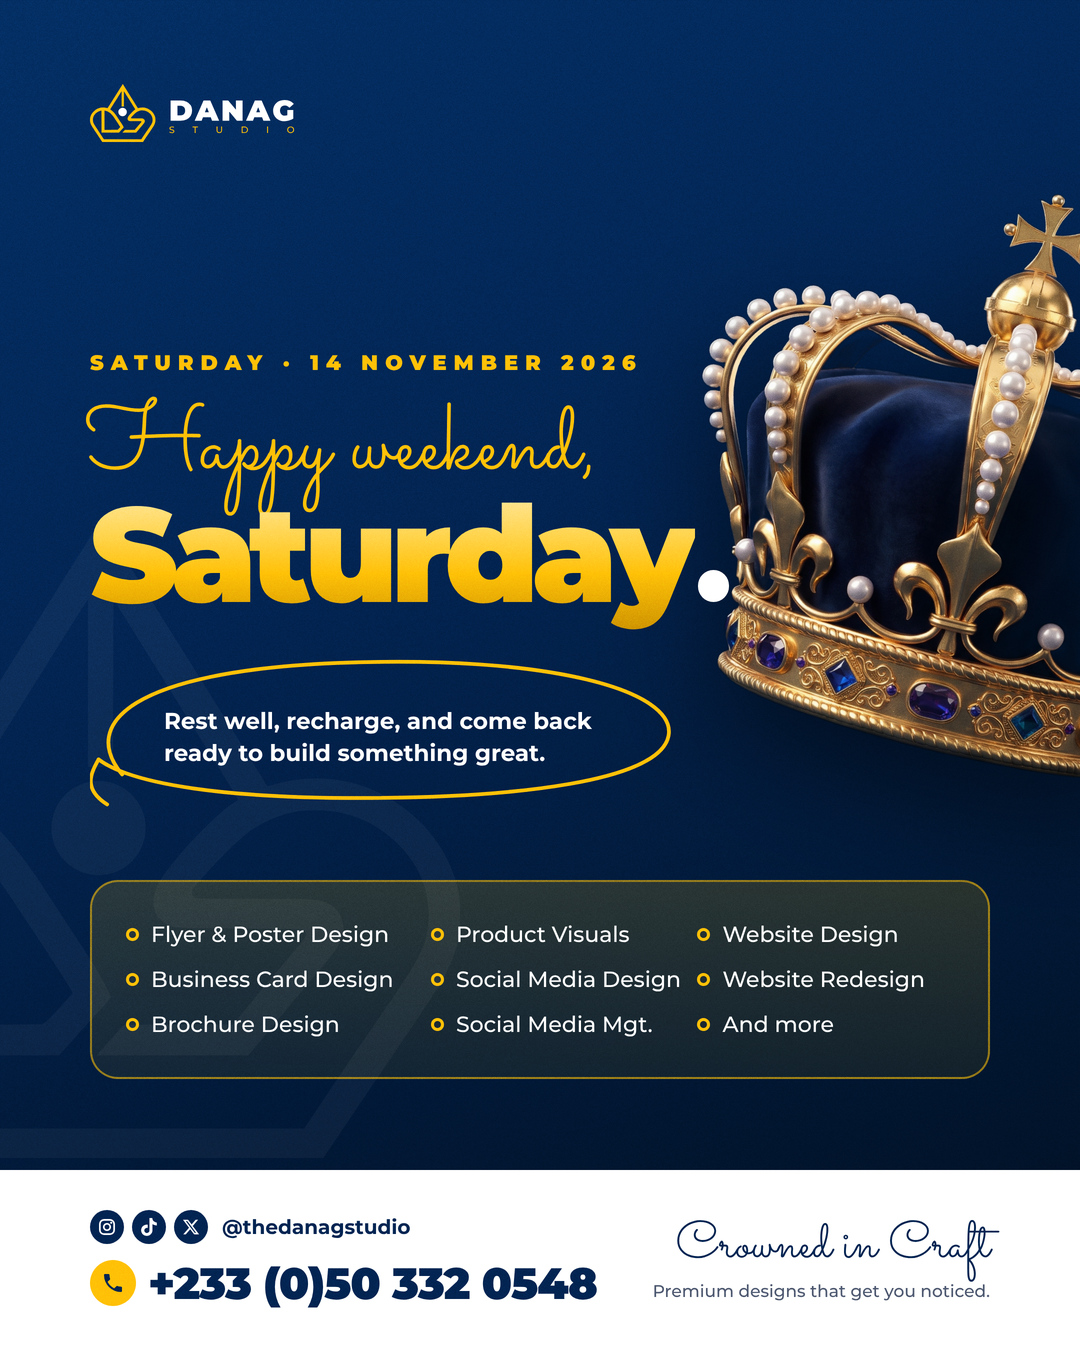
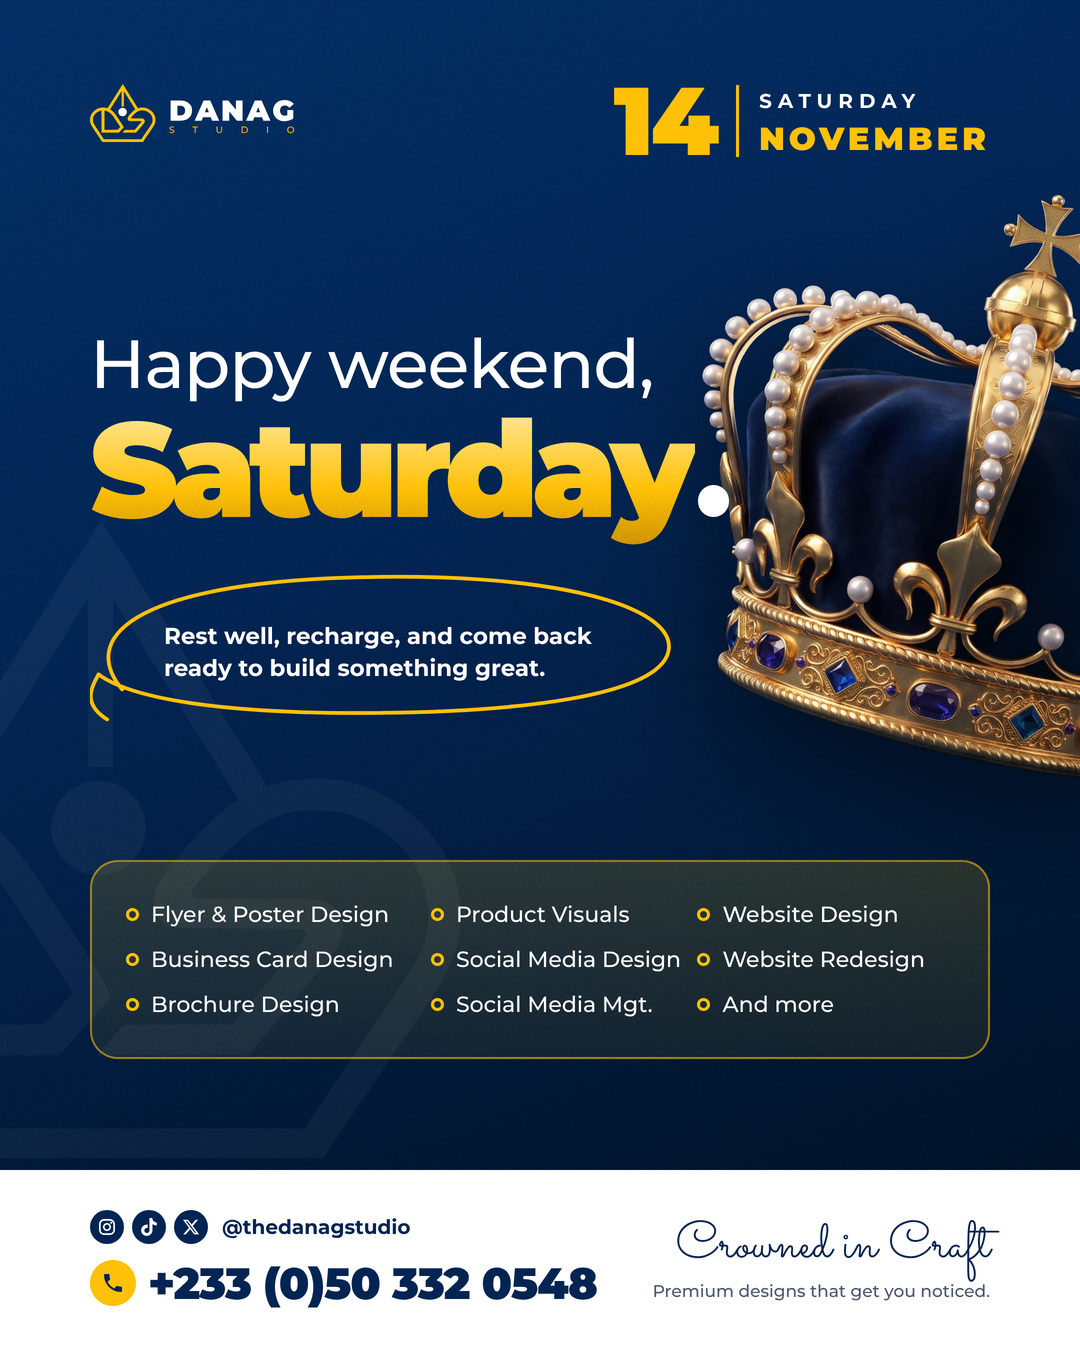
Saturday 14 Nov: white pen greeting (single slide) + navy hanging-phone promo
Claude-Session: https://claude.ai/code/session_016a1VN4sEuNiBsko23wNLQZ

diff --git a/promo/render_greet_pen.py b/promo/render_greet_pen.py
@@ -11,11 +11,17 @@ sys.path.insert(0, B)
 import render_book as rb
 from contacts import IC
 out, script, head, kick, msg = sys.argv[1:6]
+import datetime as _dt
+_d = _dt.date.fromisoformat(sys.argv[6]) if len(sys.argv) > 6 else _dt.date.today()
+DAY = _d.strftime('%d'); WD = _d.strftime('%A').upper(); MON = _d.strftime('%B').upper()
 F = f'{R}/fonts/'; GOLD = '#FFC107'
-CROWN = pathlib.Path('/home/claude/assets/crown-cut.png').as_uri()
+import os as _os
+CROWN = pathlib.Path(_os.environ.get('OBJ', '/home/claude/assets/crown-cut.png')).as_uri()
+OBJST = _os.environ.get('OBJSTYLE', 'right:-270px;top:190px;width:680px;transform:rotate(14deg)')
 logo = re.sub(r'<\?xml[^>]*>', '', open(f'{B}/logo-on-navy.svg').read()).replace('<svg', '<svg style="height:58px;width:auto;display:block"', 1)
 ic = lambda k, c, s=22: f'<svg viewBox="0 0 24 24" width="{s}" height="{s}" style="color:{c};flex:none">{IC[k]}</svg>'
-circ = lambda k: f'<span style="width:34px;height:34px;border-radius:50%;background:#022452;display:inline-flex;align-items:center;justify-content:center">{ic(k, "#fff", 18)}</span>'
+circ = lambda k: f'<span style="width:34px;height:34px;border-radius:50%;background:#022452;display:inline-flex;align-items:center;justify-content:center">{ic(k, CI, 18)}</span>'
+CI = '#022452' if __import__('os').environ.get('THEME') == 'white' else '#fff'
 cols = [['Flyer &amp; Poster Design', 'Business Card Design', 'Brochure Design'],
         ['Product Visuals', 'Social Media Design', 'Social Media Mgt.'],
         ['Website Design', 'Website Redesign', 'And more']]
@@ -32,18 +38,22 @@ body{{width:1080px;height:1350px;overflow:hidden;position:relative;font-family:M
 .g{{background:linear-gradient(180deg,#FFF1C4 0%,#FFD54F 38%,#FFC107 62%,#C98F00 100%);-webkit-background-clip:text;background-clip:text;color:transparent;padding-right:.04em}}
 </style></head><body>
 <svg class="a" viewBox="252 255 749 664" style="left:-260px;top:520px;width:720px;opacity:.04"><path fill="#fff" fill-rule="evenodd" d="{rb.MK['nodot']}"/><path fill="#fff" d="{rb.MK['dot']}"/></svg>
-<img class="a" src="{CROWN}" style="right:-270px;top:190px;width:680px;transform:rotate(14deg);filter:drop-shadow(0 40px 60px rgba(0,0,0,.55))">
+<img class="a" src="{CROWN}" style="{OBJST};filter:drop-shadow(0 40px 60px rgba(0,0,0,.55))">
 <div class="a" style="left:90px;top:84px">{logo}</div>
-<div class="a" style="left:90px;top:350px">
- <div style="font-weight:900;font-size:21px;letter-spacing:7px;color:{GOLD}">{kick}</div>
- <div style="font-family:SC;font-size:96px;line-height:1;color:{GOLD};margin-top:26px;margin-left:-4px">{script}</div>
- <div id="h" style="font-weight:900;font-size:176px;line-height:.95;letter-spacing:-7px;margin-top:-6px;white-space:nowrap"><span class="g">{head}</span><span style="display:inline-block;width:.236em;height:.236em;border-radius:50%;background:#fff;margin-left:.02em"></span></div>
+<div class="a" style="right:90px;top:84px;display:flex;align-items:center;gap:20px;z-index:5">
+ <div style="font-weight:900;font-size:96px;line-height:.78;color:{GOLD};letter-spacing:-3px">{DAY}</div>
+ <div style="width:3px;height:72px;background:{GOLD}"></div>
+ <div style="font-weight:700;font-size:20px;letter-spacing:6px;line-height:1.55">{WD}<span style="display:block;font-weight:900;font-size:32px;letter-spacing:4px;line-height:1.1;margin-top:4px;color:{GOLD}">{MON}</span></div>
+</div>
+<div class="a" style="left:90px;top:330px">
+  <div style="font-weight:500;font-size:68px;line-height:1;letter-spacing:-1px;color:#fff;margin-top:0">{script}</div>
+ <div id="h" style="font-weight:900;font-size:176px;line-height:.95;letter-spacing:-7px;margin-top:8px;white-space:nowrap"><span class="g">{head}</span><span style="display:inline-block;width:.236em;height:.236em;border-radius:50%;background:#fff;margin-left:.02em"></span></div>
  <div style="position:relative;width:600px;height:170px;margin-top:30px">
   <svg class="a" viewBox="0 0 560 150" preserveAspectRatio="none" style="inset:0"><path d="M30 118 C-10 70 40 22 230 14 C430 6 548 40 540 82 C532 124 400 140 250 140 C130 140 40 128 8 104" fill="none" stroke="{GOLD}" stroke-width="3.5" stroke-linecap="round"/><path d="M8 104 C0 118 -6 132 16 146" fill="none" stroke="{GOLD}" stroke-width="3.5" stroke-linecap="round"/></svg>
   <div class="a" style="left:74px;right:56px;top:58px;font-weight:700;font-size:23px;line-height:1.38">{msg}</div>
  </div>
 </div>
-<div class="a" style="left:90px;right:90px;top:880px;border:2px solid rgba(255,193,7,.55);border-radius:28px;background:linear-gradient(180deg,rgba(255,193,7,.16),rgba(255,193,7,.07));padding:30px 34px;display:grid;grid-template-columns:1.15fr 1fr 1fr;gap:10px;font-weight:500;font-size:22px">{svc}</div>
+<div class="a" style="left:90px;right:90px;top:860px;border:2px solid rgba(255,193,7,.55);border-radius:28px;background:linear-gradient(180deg,rgba(255,193,7,.16),rgba(255,193,7,.07));padding:30px 34px;display:grid;grid-template-columns:1.15fr 1fr 1fr;gap:10px;font-weight:500;font-size:22px">{svc}</div>
 <div class="a" style="left:0;right:0;bottom:0;height:180px;background:#fff;color:#022452;display:flex;align-items:center;justify-content:space-between;padding:0 90px">
  <div><div style="display:flex;align-items:center;gap:8px;font-weight:700;font-size:20px">{circ('IG')}{circ('TT')}{circ('X')}<span style="margin-left:6px">@thedanagstudio</span></div>
   <div style="display:flex;align-items:center;gap:12px;margin-top:12px"><span style="width:46px;height:46px;border-radius:50%;background:{GOLD};display:inline-flex;align-items:center;justify-content:center">{ic('PH', '#022452', 24)}</span><span style="font-weight:900;font-size:44px;letter-spacing:-1px">+233 (0)50 332 0548</span></div></div>
@@ -52,6 +62,22 @@ body{{width:1080px;height:1350px;overflow:hidden;position:relative;font-family:M
 <div class="a" style="inset:0;z-index:50;pointer-events:none;opacity:.16;mix-blend-mode:overlay;background-size:256px;background-image:url({R}/grain.png)"></div>
 <script>document.fonts.ready.then(()=>{{const h=document.getElementById('h');let f=176;while(h.scrollWidth>640&&f>90){{f-=2;h.style.fontSize=f+'px'}}document.body.dataset.done=1}})</script>
 </body></html>"""
+import os
+if os.environ.get('THEME') == 'white':
+    wl = re.sub(r'<\?xml[^>]*>', '', open(f'{B}/logo-on-white.svg').read()).replace('<svg', '<svg style="height:58px;width:auto;display:block"', 1) if os.path.exists(f'{B}/logo-on-white.svg') else logo
+    html = html.replace(logo, wl)
+    html = html.replace('background:linear-gradient(160deg,#032F65 0%,#022452 40%,#011631 78%,#010F21 100%)',
+        'background:radial-gradient(900px 700px at 0% 0%,rgba(255,193,7,.20),transparent 60%),linear-gradient(160deg,#ffffff 0%,#f6f7fa 55%,#eceef3 100%)')
+    html = html.replace('font-family:M;color:#fff;', 'font-family:M;color:#022452;', 1)
+    html = html.replace('letter-spacing:-1px;color:#fff;margin-top:0', 'letter-spacing:-1px;color:#022452;margin-top:0')
+    html = html.replace('border-radius:50%;background:#fff;margin-left:.02em', 'border-radius:50%;background:#022452;margin-left:.02em')
+    html = html.replace('<path fill="#fff" fill-rule="evenodd"', '<path fill="#022452" fill-rule="evenodd"').replace('<path fill="#fff" d=', '<path fill="#022452" d=')
+    html = html.replace('background:linear-gradient(180deg,rgba(255,193,7,.16),rgba(255,193,7,.07))', 'background:#fff;box-shadow:0 18px 40px rgba(2,36,82,.10)')
+    html = html.replace('.g{background:linear-gradient(180deg,#FFF1C4 0%,#FFD54F 38%,#FFC107 62%,#C98F00 100%)', '.g{background:linear-gradient(180deg,#FFD54F 0%,#FFC107 45%,#C98F00 100%)')
+    # footer band becomes navy
+    html = html.replace('height:180px;background:#fff;color:#022452', 'height:180px;background:linear-gradient(160deg,#032F65,#011631);color:#fff')
+    html = html.replace('background:#022452;display:inline-flex', 'background:#fff;display:inline-flex').replace('{ic(k, "#fff", 18)}', '')
+    html = html.replace('font-family:SC;font-size:52px;line-height:1;color:#022452', 'font-family:SC;font-size:52px;line-height:1;color:#FFC107').replace('color:#4d5870', 'color:#c9d3e6')
 tmp = '/tmp/_pen.html'; open(tmp, 'w').write(html)
 with sync_playwright() as p:
     b = p.chromium.launch(executable_path='/usr/bin/google-chrome')

diff --git a/promo/render_phone.py b/promo/render_phone.py
@@ -1,0 +1,54 @@
+"""Hero-object promo: hanging gold phone, "Hey you, let's get in touch." (guide: Uplix Orbit, 2026-11-14). Navy, no glow.
+Usage: python3 promo/render_phone.py OUT_BASENAME [photo]
+"""
+import sys, os, re, pathlib
+from playwright.sync_api import sync_playwright
+from PIL import Image
+P = os.path.dirname(os.path.abspath(__file__)); R = os.path.dirname(P); B = f'{R}/book-flyer'
+sys.path.insert(0, B)
+import render_book as rb
+from contacts import IC
+out = sys.argv[1]
+PHOTO = pathlib.Path(sys.argv[2] if len(sys.argv) > 2 else '/home/claude/assets/phone-nb.jpg').as_uri()
+F = f'{R}/fonts/'; GOLD = '#FFC107'
+logo = re.sub(r'<\?xml[^>]*>', '', open(f'{B}/logo-on-navy.svg').read()).replace('<svg', '<svg style="height:58px;width:auto;display:block"', 1)
+ic = lambda k, c, s=22: f'<svg viewBox="0 0 24 24" width="{s}" height="{s}" style="color:{c};flex:none">{IC[k]}</svg>'
+circ = lambda k: f'<span style="width:34px;height:34px;border-radius:50%;border:1.5px solid rgba(255,193,7,.7);display:inline-flex;align-items:center;justify-content:center">{ic(k, GOLD, 17)}</span>'
+dot = '<span style="display:inline-block;width:.236em;height:.236em;border-radius:50%;background:#FFC107;margin-left:.04em"></span>'
+html = f"""<html><head><style>
+@font-face{{font-family:M;font-weight:400;src:url({F}montserrat-latin-400-normal.woff2)}}
+@font-face{{font-family:M;font-weight:500;src:url({F}montserrat-latin-500-normal.woff2)}}
+@font-face{{font-family:M;font-weight:700;src:url({F}montserrat-latin-700-normal.woff2)}}
+@font-face{{font-family:M;font-weight:600;src:url({F}montserrat-latin-600-normal.woff2)}}
+@font-face{{font-family:M;font-weight:900;src:url({F}montserrat-latin-900-normal.woff2)}}
+@font-face{{font-family:SC;src:url({F}sacramento-latin-400-normal.woff2)}}
+*{{margin:0;padding:0;box-sizing:border-box}}
+body{{width:1080px;height:1350px;overflow:hidden;position:relative;font-family:M;color:#fff;background:#011631}}
+.a{{position:absolute}} .g{{color:{GOLD}}}
+</style></head><body>
+<div class="a" style="inset:0;background:url({PHOTO}) center 38%/cover"></div>
+<div class="a" style="inset:0;background:radial-gradient(520px 640px at 50% 40%,transparent 0%,rgba(1,15,33,.35) 70%),linear-gradient(180deg,rgba(1,22,49,.55) 0%,rgba(1,22,49,0) 22%,rgba(1,22,49,0) 55%,rgba(1,15,33,.92) 82%,#010F21 100%)"></div>
+<svg class="a" viewBox="252 255 749 664" style="right:-220px;bottom:-60px;width:640px;opacity:.025"><path fill="#fff" fill-rule="evenodd" d="{rb.MK['nodot']}"/><path fill="#fff" d="{rb.MK['dot']}"/></svg>
+<div class="a" style="left:90px;top:84px">{logo}</div>
+<div class="a" style="right:90px;top:92px;font-weight:700;font-size:16px;letter-spacing:6px;color:rgba(255,255,255,.75)">CROWNED IN CRAFT</div>
+<div class="a" style="right:632px;top:560px;text-align:right;font-size:70px;line-height:1;letter-spacing:-2px;white-space:nowrap"><b class="g" style="font-weight:900">Hey</b> <span style="font-weight:500;font-style:italic">you,</span></div>
+<div class="a" style="left:648px;top:560px;font-size:70px;line-height:1.02;letter-spacing:-2px;font-weight:500;white-space:nowrap">let's <b class="g" style="font-weight:900">get</b><br>in touch{dot}</div>
+<div class="a" style="left:0;right:0;top:1000px;text-align:center;font-size:40px;line-height:1.28;font-weight:500;letter-spacing:-.5px">Let's design what your<br><b class="g" style="font-weight:900">brand</b> <b style="font-weight:900">says</b> <b class="g" style="font-weight:900">next</b>.</div>
+<div class="a" style="left:90px;right:90px;top:1170px;height:1px;background:linear-gradient(90deg,transparent,rgba(255,193,7,.6),transparent)"></div>
+<div class="a" style="left:90px;right:90px;top:1206px;display:flex;align-items:center;justify-content:center;gap:34px;font-weight:600;font-size:21px;color:#e8ecf4">
+ <div style="display:flex;align-items:center;gap:10px">{circ('PH')}+233 (0)50 332 0548</div>
+ <div style="width:1.5px;height:30px;background:rgba(255,255,255,.35)"></div>
+ <div style="display:flex;align-items:center;gap:8px">{circ('IG')}{circ('TT')}{circ('X')}<span style="margin-left:4px">@thedanagstudio</span></div>
+</div>
+<div class="a" style="inset:0;z-index:50;pointer-events:none;opacity:.16;mix-blend-mode:overlay;background-size:256px;background-image:url({R}/grain.png)"></div>
+<script>document.fonts.ready.then(()=>document.body.dataset.done=1)</script>
+</body></html>"""
+tmp = '/tmp/_phone.html'; open(tmp, 'w').write(html)
+with sync_playwright() as p:
+    b = p.chromium.launch(executable_path='/usr/bin/google-chrome'); pg = b.new_page(viewport={'width': 1080, 'height': 1350}, device_scale_factor=2)
+    pg.goto(pathlib.Path(tmp).as_uri()); pg.wait_for_selector('body[data-done]'); pg.wait_for_timeout(400)
+    pg.screenshot(path='/tmp/_phone.png'); b.close()
+im = Image.open('/tmp/_phone.png').convert('RGB')
+im.save(out + '.jpg', quality=95, subsampling=0)
+im.resize((1080, 1350), Image.LANCZOS).save(out + '-1080.jpg', quality=95, subsampling=0)
+print('ok', out)
